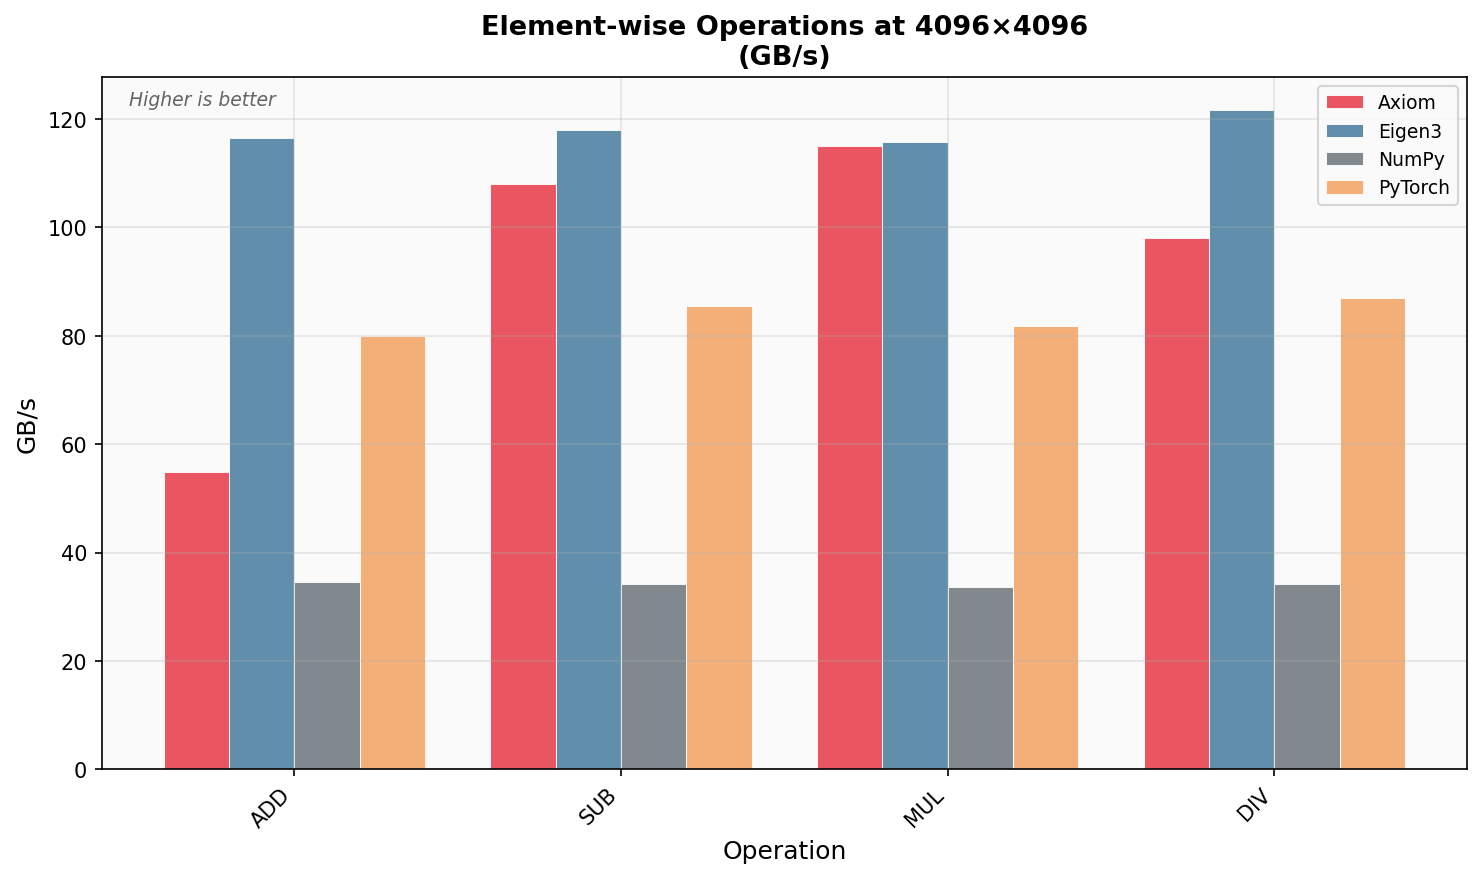
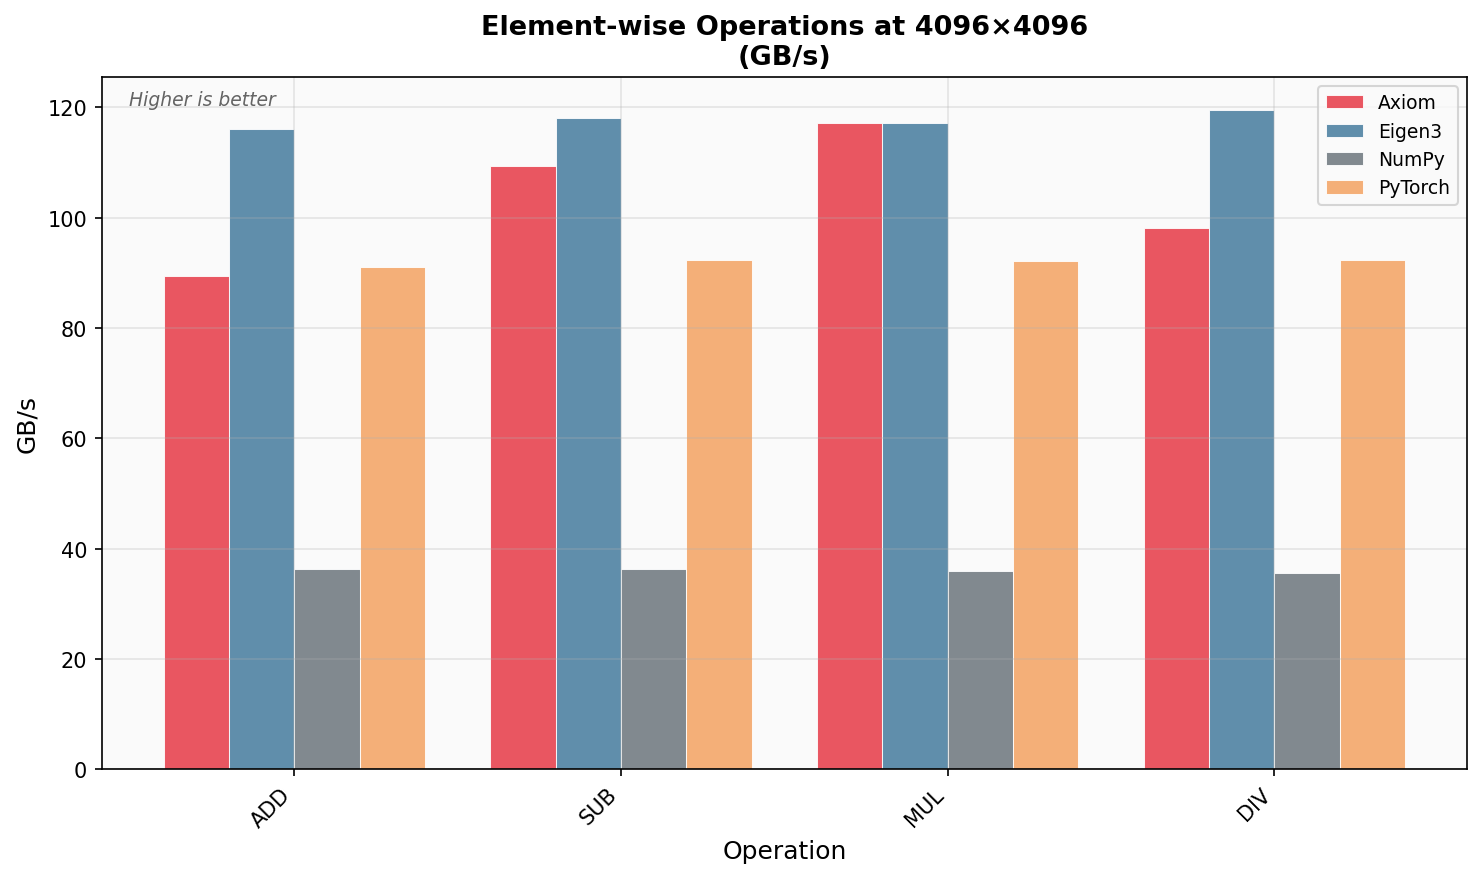
Improve graph fusion, materialization, and execution
Stop topological traversal at constant/materialized boundaries and prevent DCE from recursing past them in the graph compiler; ensure executor fused fast-paths require contiguous inputs that match output size (no broadcasting) and apply the same check for tiled fused loops. Update graph registry to collect constants with the same boundary semantics and rework materialize() to materialize shared (ref_count>1) nodes first so shared results are preserved, removing the old blanket subgraph marking. Fix Tensor::materialize_if_needed to handle lazy nodes and correctly copy cached results. Also update README and regenerate benchmark plots and stats (timestamps and numeric updates).

diff --git a/src/graph/graph_registry.cpp b/src/graph/graph_registry.cpp
@@ -603,7 +603,9 @@ Tensor GraphRegistry::create_lazy_matmul(const Tensor &a, const Tensor &b,
 // matching the order expected by the compiled plan's input_slots.
 static std::vector<Tensor>
 collect_constant_inputs(const GraphNode *root, const CompiledGraph & /*plan*/) {
-    // Walk the graph in topological order and collect constants
+    // Walk the graph in topological order and collect constants.
+    // Stop at constant/materialized boundaries (don't recurse into
+    // their inputs) to match the compiler's topological sort.
     std::vector<const GraphNode *> sorted;
     std::unordered_set<const GraphNode *> visited;
     std::vector<std::pair<const GraphNode *, size_t>> stack;
@@ -612,6 +614,13 @@ collect_constant_inputs(const GraphNode *root, const CompiledGraph & /*plan*/) {
     while (!stack.empty()) {
         auto &[n, idx] = stack.back();
         if (visited.count(n)) {
+            stack.pop_back();
+            continue;
+        }
+        // Leaf boundary: include but don't recurse
+        if (n != root && (n->is_constant || n->is_materialized_)) {
+            visited.insert(n);
+            sorted.push_back(n);
             stack.pop_back();
             continue;
         }
@@ -647,37 +656,47 @@ collect_constant_inputs(const GraphNode *root, const CompiledGraph & /*plan*/) {
     return inputs;
 }
 
-// Mark all non-constant nodes in the subgraph as materialized
-static void mark_subgraph_materialized(GraphNode *root) {
-    std::unordered_set<GraphNode *> visited;
-    std::vector<GraphNode *> stack;
-    stack.push_back(root);
-
-    while (!stack.empty()) {
-        GraphNode *n = stack.back();
-        stack.pop_back();
-        if (!visited.insert(n).second)
-            continue;
-        for (auto &inp : n->inputs) {
-            if (!inp->is_constant && !inp->is_materialized_) {
-                // Mark intermediates as fused (they don't have their
-                // own result — the fused execution skipped them)
-                inp->is_fused = true;
-                inp->is_materialized_ = true;
-                stack.push_back(inp.get());
-            }
-        }
-    }
-}
-
 void GraphRegistry::materialize(GraphNode *node) {
     if (node->is_materialized_)
         return;
 
-    // Ensure all constant inputs are available
-    for (auto &inp : node->inputs) {
-        if (!inp->is_constant && !inp->is_materialized_) {
-            materialize(inp.get());
+    // Walk the subgraph and materialize shared nodes (ref_count > 1)
+    // first so their results are preserved for other consumers.
+    // Single-consumer intermediates are left unmaterialized so the
+    // compiler can see the full chain and fuse operations.
+    {
+        std::vector<GraphNode *> shared_topo;
+        std::unordered_set<GraphNode *> visited;
+        std::vector<std::pair<GraphNode *, size_t>> stk;
+        stk.push_back({node, 0});
+
+        while (!stk.empty()) {
+            auto &[n, idx] = stk.back();
+            if (visited.count(n)) {
+                stk.pop_back();
+                continue;
+            }
+            if (idx < n->inputs.size()) {
+                GraphNode *child = n->inputs[idx].get();
+                idx++;
+                if (!visited.count(child) && !child->is_constant &&
+                    !child->is_materialized_) {
+                    stk.push_back({child, 0});
+                }
+            } else {
+                visited.insert(n);
+                if (n != node && !n->is_constant && !n->is_materialized_ &&
+                    n->ref_count > 1) {
+                    shared_topo.push_back(n);
+                }
+                stk.pop_back();
+            }
+        }
+
+        for (auto *shared : shared_topo) {
+            if (!shared->is_materialized_) {
+                materialize(shared);
+            }
         }
     }
 
@@ -698,9 +717,6 @@ void GraphRegistry::materialize(GraphNode *node) {
     node->cached_shape_ = result.shape();
     node->cached_strides_ = result.strides();
     node->is_materialized_ = true;
-
-    // Mark intermediate nodes as materialized
-    mark_subgraph_materialized(node);
 
     // Clean up pending nodes that are now materialized
     pending_nodes_.erase(std::remove_if(pending_nodes_.begin(),

diff --git a/src/tensor/tensor.cpp b/src/tensor/tensor.cpp
@@ -5,6 +5,7 @@
 #include <cstring>
 #include <iostream>
 #include <sstream>
+#include <unordered_set>
 
 #include "axiom/einops.hpp"
 #include "axiom/error.hpp"
@@ -257,21 +258,21 @@ Device Tensor::device() const {
 // ============================================================================
 
 void Tensor::materialize_if_needed() const {
-    if (!lazy_node_ || lazy_node_->is_materialized_) {
-        // Already materialized or not lazy
-        if (lazy_node_ && lazy_node_->is_materialized_) {
-            // Need to copy result from node to tensor
-            Tensor *mutable_this = const_cast<Tensor *>(this);
-            mutable_this->storage_ = lazy_node_->cached_result_;
-            mutable_this->shape_ = lazy_node_->cached_shape_;
-            mutable_this->strides_ = lazy_node_->cached_strides_;
-            mutable_this->dtype_ = lazy_node_->output_dtype;
-            mutable_this->offset_ = 0;
-            mutable_this->flags_.owndata = true;
-            mutable_this->flags_.writeable = true;
-            mutable_this->lazy_node_ = nullptr;
-            mutable_this->update_contiguity_flags();
-        }
+    if (!lazy_node_)
+        return;
+
+    if (lazy_node_->is_materialized_) {
+        // Copy cached result from node to tensor
+        Tensor *mutable_this = const_cast<Tensor *>(this);
+        mutable_this->storage_ = lazy_node_->cached_result_;
+        mutable_this->shape_ = lazy_node_->cached_shape_;
+        mutable_this->strides_ = lazy_node_->cached_strides_;
+        mutable_this->dtype_ = lazy_node_->output_dtype;
+        mutable_this->offset_ = 0;
+        mutable_this->flags_.owndata = true;
+        mutable_this->flags_.writeable = true;
+        mutable_this->lazy_node_ = nullptr;
+        mutable_this->update_contiguity_flags();
         return;
     }
 

diff --git a/src/graph/graph_executor.cpp b/src/graph/graph_executor.cpp
@@ -384,9 +384,9 @@ void GraphExecutor::execute_fused_known(const ExecutionStep &step,
         return;
     }
 
-    // Check inputs are contiguous
+    // Check inputs are contiguous and same size as output (no broadcast)
     for (const auto &t : inputs) {
-        if (!t.is_contiguous()) {
+        if (!t.is_contiguous() || t.size() != step.total_elements) {
             execute_fused_generic(step, plan, buffers);
             return;
         }
@@ -472,11 +472,12 @@ static bool try_tiled_fused_loop(const ExecutionStep &step,
 
     // All fn-ptrs resolved — proceed with tiled loop
 
-    // Check inputs are contiguous
+    // Check inputs are contiguous and match output size (no broadcast)
     for (const auto &per_op : step.input_slot_indices) {
         for (int s : per_op) {
             if (s >= 0 && s < static_cast<int>(buffers.size())) {
-                if (!buffers[s].is_contiguous())
+                if (!buffers[s].is_contiguous() ||
+                    buffers[s].size() != step.total_elements)
                     return false;
             }
         }

diff --git a/src/graph/graph_compiler.cpp b/src/graph/graph_compiler.cpp
@@ -29,6 +29,15 @@ GraphCompiler::topological_sort(const GraphNode *root) {
             continue;
         }
 
+        // Constant/materialized nodes are leaf boundaries — include
+        // them but don't recurse into their inputs.
+        if (node != root && (node->is_constant || node->is_materialized_)) {
+            visited.insert(node);
+            result.push_back(node);
+            stack.pop_back();
+            continue;
+        }
+
         if (idx < node->inputs.size()) {
             const GraphNode *child = node->inputs[idx].get();
             idx++;
@@ -61,6 +70,9 @@ std::vector<const GraphNode *> GraphCompiler::dead_code_elimination(
     while (!worklist.empty()) {
         const GraphNode *node = worklist.back();
         worklist.pop_back();
+        // Don't recurse past constant/materialized boundaries
+        if (node->is_constant || node->is_materialized_)
+            continue;
         for (const auto &inp : node->inputs) {
             if (reachable.insert(inp.get()).second) {
                 worklist.push_back(inp.get());

diff --git a/docs/BENCHMARKS.md b/docs/BENCHMARKS.md
@@ -1,6 +1,6 @@
 # Axiom Benchmark Results
 
-*Generated: 2026-02-05 19:08*
+*Generated: 2026-02-06 11:49*
 
 *Platform: Darwin arm64*
 
@@ -32,14 +32,14 @@ Performance comparison for square matrix multiplication (GFLOPS, higher is bette
 
 | Size | Axiom | Eigen3 | PyTorch | NumPy | Armadillo |
 |---:|---:|---:|---:|---:|---:|
-| 32×32 | 66.1 | 89.9 | 56.0 | 60.0 | 98.9 |
-| 64×64 | 332 | 410 | 320 | 323 | 33.6 |
-| 128×128 | 969 | 959 | 943 | 955 | 46.5 |
-| 256×256 | 1,355 | 1,347 | 1,411 | 1,412 | 201 |
-| 512×512 | 2,610 | 2,253 | 2,580 | 2,542 | 403 |
-| 1024×1024 | 3,149 | 2,504 | 2,468 | 2,420 | 434 |
-| 2048×2048 | 3,196 | 2,911 | 2,433 | 2,684 | 553 |
-| 4096×4096 | 2,771 | 2,858 | 2,833 | 2,938 | 675 |
+| 32×32 | 12.5 | 72.2 | 59.4 | 55.2 | 97.1 |
+| 64×64 | 102 | 422 | 319 | 329 | 32.3 |
+| 128×128 | 485 | 956 | 949 | 957 | 31.3 |
+| 256×256 | 1,165 | 1,348 | 1,553 | 1,412 | 162 |
+| 512×512 | 1,535 | 2,288 | 1,255 | 2,580 | 462 |
+| 1024×1024 | 2,614 | 2,484 | 2,227 | 2,333 | 519 |
+| 2048×2048 | 3,189 | 2,941 | 2,754 | 2,745 | 606 |
+| 4096×4096 | 3,090 | 2,974 | 2,902 | 2,940 | 683 |
 
 ### Performance Comparison
 
@@ -60,10 +60,10 @@ Binary element-wise operations (add, sub, mul, div) measured in GB/s throughput.
 
 | Operation | Axiom | Eigen3 | PyTorch | NumPy |
 |:---|---:|---:|---:|---:|
-| add | 56.3 | 118 | 90.7 | 35.5 |
-| sub | 104 | 119 | 91.1 | 34.8 |
-| mul | 119 | 117 | 91.2 | 37.0 |
-| div | 97.6 | 116 | 90.7 | 36.7 |
+| add | 89.4 | 116 | 91.1 | 36.4 |
+| sub | 109 | 118 | 92.4 | 36.4 |
+| mul | 117 | 117 | 92.1 | 36.0 |
+| div | 98.1 | 120 | 92.3 | 35.7 |
 
 ### Performance by Operation
 
@@ -84,16 +84,16 @@ Unary operations (exp, log, sqrt, sin, cos, tanh, abs, neg, relu, sigmoid) measu
 
 | Operation | Axiom | Eigen3 | PyTorch | NumPy |
 |:---|---:|---:|---:|---:|
-| exp | 18.6 | 18.4 | 48.8 | 5.61 |
-| log | 17.5 | 12.9 | 33.1 | 4.86 |
-| sqrt | 39.7 | 66.3 | 70.8 | 25.8 |
-| sin | 26.1 | 11.0 | 38.1 | 6.05 |
-| cos | 25.6 | 11.0 | 33.8 | 6.61 |
-| tanh | 14.1 | 21.5 | 20.9 | 9.10 |
-| abs | 103 | 117 | 71.1 | 28.3 |
-| neg | 106 | 67.3 | 69.2 | 26.8 |
-| relu | 123 | 117 | 69.8 | 17.6 |
-| sigmoid | 14.3 | 16.0 | 45.0 | 3.45 |
+| exp | 23.8 | 18.7 | 47.9 | 5.36 |
+| log | 17.5 | 13.0 | 33.5 | 4.65 |
+| sqrt | 40.0 | 66.4 | 68.7 | 22.1 |
+| sin | 26.2 | 11.0 | 36.7 | 6.58 |
+| cos | 26.0 | 11.1 | 24.4 | 6.63 |
+| tanh | 14.3 | 21.6 | 18.5 | 9.06 |
+| abs | 104 | 119 | 67.5 | 26.1 |
+| neg | 108 | 66.8 | 66.2 | 26.2 |
+| relu | 121 | 117 | 61.5 | 18.1 |
+| sigmoid | 14.0 | 16.0 | 43.5 | 3.50 |
 
 ### Performance by Operation
 
@@ -115,13 +115,13 @@ Measured in milliseconds (lower is better).
 
 | Operation | Axiom | Eigen3 | PyTorch | NumPy |
 |:---|---:|---:|---:|---:|
-| svd | 18.6 | 2,207 | 16.2 | 28.7 |
-| qr | 4.76 | 1.51 | 4.05 | 8.56 |
-| solve | 0.99 | 2.21 | 0.47 | 1.21 |
-| cholesky | 0.69 | 0.23 | 0.23 | 1.45 |
-| eig | 153 | 21.9 | 9.25 | 15.5 |
-| inv | 1.55 | 2.29 | 0.95 | 3.89 |
-| det | 1.02 | 1.46 | 0.55 | 1.77 |
+| svd | 18.6 | 2,182 | 16.5 | 28.9 |
+| qr | 4.73 | 1.57 | 4.11 | 7.96 |
+| solve | 0.99 | 2.17 | 0.44 | 1.21 |
+| cholesky | 0.71 | 0.24 | 0.21 | 1.48 |
+| eig | 160 | 22.4 | 9.51 | 15.5 |
+| inv | 1.63 | 2.34 | 1.05 | 3.89 |
+| det | 1.03 | 1.47 | 0.61 | 1.68 |
 
 ### Performance by Operation
 
@@ -143,12 +143,12 @@ Measured in milliseconds (lower is better).
 
 | Operation | Axiom | PyTorch | NumPy |
 |:---|---:|---:|---:|
-| fft | 0.09 | 0.01 | 0.01 |
+| fft | 0.10 | 0.01 | 0.01 |
 | ifft | 0.09 | 0.01 | 0.01 |
 | rfft | 0.09 | 0.01 | 0.01 |
-| fft2 | 14.9 | 27.6 | 63.5 |
-| ifft2 | 14.8 | 28.4 | 30.3 |
-| rfft2 | 14.2 | 8.04 | 24.2 |
+| fft2 | 14.8 | 28.0 | 62.2 |
+| ifft2 | 14.7 | 27.9 | 30.1 |
+| rfft2 | 14.2 | 7.83 | 23.7 |
 
 ### Performance by Operation
 
@@ -176,7 +176,7 @@ Lazy evaluation with operation fusion vs eager mode execution.
 OS: Darwin 25.2.0
 Architecture: arm64
 Python: 3.14.2
-Timestamp: 2026-02-05T19:04:35.860936
+Timestamp: 2026-02-06T11:47:28.078194
 ```
 
 ## Notes

diff --git a/README.md b/README.md
@@ -467,7 +467,8 @@ For portable distributions, Axiom can dynamically link BLAS at runtime.
 
 Axiom is building toward a future where prototyping in Python and deploying in C++ requires zero mental overhead. The API parity is intentional—your NumPy code translates line-by-line.
 
-- **Lazy Evaluation** *(in development)* — Expression graph compilation for automatic kernel fusion and memory optimization
+- **Lazy Evaluation & Graph Compiler** — Expression graph with deferred execution, automatic operator fusion (12 SIMD-fused patterns + generic tiled fusion), compiled graph caching, and arena-pooled buffer reuse. Foundation for autograd and JIT compilation.
+- **Autograd** *(planned)* — Reverse-mode automatic differentiation over the expression graph
 - **ONNX Runtime Integration** — Load and run ONNX models directly
 - **Quantization Toolkit** — INT8/INT4 quantization for edge deployment
 - **Custom Op Registration** — Extend Axiom with your own kernels
